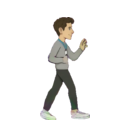
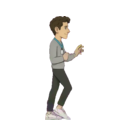
fix(arcade): the picker measures a cycle's period instead of guessing its spacing
The Oracle video walk played backwards: four picks spaced by a guessed 10 frames on a
28-frame cycle land out of phase. The picker now finds where the clip best matches
itself again (rejecting the shallower one-step dip for the full-cycle one) and spreads
the picks over exactly one cycle. Re-picked, re-normalised and re-wired.

Changed region(s): [[0.3125, 0.125, 0.7188, 0.9375]]

diff --git a/tools/assets/pick-arcade-frames.py b/tools/assets/pick-arcade-frames.py
@@ -12,8 +12,10 @@ become the drawings. This is Spriterrific's frame-picker discipline, ported:
 
   1. extract every frame with ffmpeg (or take a folder of frame-*.png already extracted);
   2. skip the settle at the start (--start-fraction: the model eases into the motion);
-  3. for a `cycle` (walk, idle) take N frames evenly spaced over N-1 times --span-factor
-     dense frames, which is roughly one stride; for an `action` (an attack, a reaction)
+  3. for a `cycle` (walk, idle) MEASURE the cycle period (where the clip best matches itself
+     again) and spread N frames over exactly one cycle, so the picks are in phase order —
+     a guessed spacing lands them out of phase and the walk plays as a moonwalk;
+     --span-factor overrides the measurement; for an `action` (an attack, a reaction)
      spread N frames over the whole remaining clip; for `hold` (a block) take the frames
      where the pose has settled;
   4. reject near-duplicates: a pick that differs from the previous one by less than
@@ -93,14 +95,51 @@ def spread_distinct(start: int, end: int, last: int, count: int, sigs: list[np.n
     return picks
 
 
-def choose(frames: list[Path], count: int, policy: str, start_fraction: float, span_factor: float, threshold: float | None) -> tuple[list[int], dict]:
+def cycle_period(sigs: list[np.ndarray], start: int) -> int | None:
+    """Dense frames per full cycle, from where the clip best matches itself again.
+
+    Mean absolute difference between each frame and the frame `k` later, for every `k`;
+    the first clear dip after the curve has risen is the period. Measured, not guessed:
+    a walk cycle picked at a guessed spacing lands its samples out of phase and plays as a
+    moonwalk. Returns None when no dip is found (a one-shot, or too short a clip).
+    """
+    pool = sigs[start:]
+    n = len(pool)
+    if n < 8:
+        return None
+    curve = []
+    for k in range(1, n // 2 + 1):
+        curve.append(float(np.mean([np.abs(pool[i] - pool[i + k]).mean() for i in range(n - k)])))
+    rise = max(curve[: max(2, len(curve) // 3)])
+    dips = [k + 1 for k in range(2, len(curve) - 1)
+            if curve[k] <= curve[k - 1] and curve[k] <= curve[k + 1] and curve[k] < 0.6 * rise]
+    if not dips:
+        return None
+    # A walk matches itself after ONE step too (the other leg, nearly the same
+    # silhouette), and that shallower dip comes first. The full cycle is the deepest
+    # match; when two dips are within a tenth of each other, the later one is the cycle.
+    best = min(dips, key=lambda lag: curve[lag - 1])
+    for lag in dips:
+        if lag > best and curve[lag - 1] <= curve[best - 1] * 1.1:
+            best = lag
+    return best
+
+
+def choose(frames: list[Path], count: int, policy: str, start_fraction: float, span_factor: float | None, threshold: float | None) -> tuple[list[int], dict]:
     total = len(frames)
     if total < count:
         raise ValueError(f"need at least {count} frames, found {total}")
     sigs = [signature(p) for p in frames]
     resolved = threshold if threshold is not None else auto_threshold(sigs)
     start = int(round((total - 1) * start_fraction))
+    period = None
     if policy == "cycle":
+        if span_factor is None:
+            period = cycle_period(sigs, start)
+            if period is None:
+                raise ValueError("could not measure a cycle period; pass --span-factor explicitly")
+            # N drawings spread over ONE period, the last one a step short of the wrap.
+            span_factor = period / count
         end = min(total - 1, start + round((count - 1) * span_factor))
     elif policy == "action":
         end = total - 1
@@ -111,7 +150,10 @@ def choose(frames: list[Path], count: int, policy: str, start_fraction: float, s
     if end - start + 1 < count:
         start, end = max(0, total - count), total - 1
     picks = spread_distinct(start, end, total - 1, count, sigs, resolved)
-    return picks, {"window": [start, end], "mode": policy, "duplicateThreshold": resolved}
+    meta = {"window": [start, end], "mode": policy, "duplicateThreshold": resolved, "spanFactor": span_factor}
+    if period is not None:
+        meta["cyclePeriod"] = period
+    return picks, meta
 
 
 def contact_sheet(paths: list[Path], out: Path, labels: list[str]) -> None:
@@ -135,7 +177,7 @@ def main() -> int:
     ap.add_argument("--frames", type=int, required=True, help="how many drawings to pick")
     ap.add_argument("--policy", choices=("cycle", "action", "hold"), default="action")
     ap.add_argument("--start-fraction", type=float, default=None, help="share of the clip to skip as settle (default: 0.08 for cycle, 0 otherwise)")
-    ap.add_argument("--span-factor", type=float, default=3.0, help="cycle only: dense frames per pick")
+    ap.add_argument("--span-factor", type=float, default=None, help="cycle only: dense frames per pick; default measures the cycle period and spreads the picks over one cycle")
     ap.add_argument("--fps", type=int, default=None, help="extraction rate; default keeps every source frame")
     ap.add_argument("--duplicate-threshold", type=float, default=None,
                     help="mean grey difference (0-255) below which two picks are the same drawing; default: half the clip's typical frame-to-frame change")
@@ -174,10 +216,11 @@ def main() -> int:
     contact_sheet(outputs, args.out_dir / "picks-contact-sheet.png", [f"{i} <- dense {index}" for i, index in enumerate(picks)])
     (args.out_dir / "selection.json").write_text(json.dumps({
         "source": str(args.source), "denseFrames": len(dense), "policy": args.policy,
-        "startFraction": start_fraction, "spanFactor": args.span_factor,
+        "startFraction": start_fraction,
         **meta, "picks": [{"out": str(o), "dense": int(i), "denseFile": str(dense[i])} for o, i in zip(outputs, picks)],
     }, indent=2) + "\n", encoding="utf-8")
-    print(f"{len(dense)} dense frames; window {meta['window'][0]}..{meta['window'][1]}; picked {picks}")
+    print(f"{len(dense)} dense frames; window {meta['window'][0]}..{meta['window'][1]}"
+          + (f"; measured cycle {meta['cyclePeriod']} frames" if meta.get('cyclePeriod') else "") + f"; picked {picks}")
     print(f"wrote {len(outputs)} picks and picks-contact-sheet.png to {args.out_dir}")
     return 0
 

diff --git a/asset-reports/mars-arcade-walk-video-trial-2026-09-24.md b/asset-reports/mars-arcade-walk-video-trial-2026-09-24.md
@@ -9,7 +9,7 @@ or free model". This is the first clip, end to end, with nothing paid.
 | --- | --- | --- |
 | Generate | `tools/assets/generate-arcade-video.py … --space ltx` on `Lightricks/ltx-video-distilled` (free ZeroGPU, no token) | 2.5 s, 512×768, 30 fps, 73 frames, **295 s in the queue**, seed 7. Prompt and provenance: `art-source/arcade/oracle/generated/walk-video-trial-v1/generation.json` |
 | Generate (Wan 2.2 first-last-frame, anchor as both ends) | same tool, `--space wan-flf` | **Refused: anonymous ZeroGPU quota is 60 s and the job asks for 180 s.** Needs `HF_TOKEN` (a free Hugging Face account). Not retried. |
-| Pick | `pick-arcade-frames.py --frames 4 --policy cycle --span-factor 10` | dense 6, 16, 26, 36 — one stride cycle after the settle |
+| Pick | `pick-arcade-frames.py --frames 4 --policy cycle` | first pass guessed a spacing of 10 and the owner saw him walk backwards: the samples were out of phase. The picker now MEASURES the cycle (28 dense frames; the one-step dip at 14 is rejected in favour of the deeper full-cycle match) and spreads the picks over exactly one cycle: dense 6, 13, 20, 27 |
 | Normalise | `normalise-arcade-clip.py --align torso --torso-reference <shipped walk-forward-00> --chroma #FF00FF` at 6.8029 (the locked 13.6058 halved, the clip being half the anchor's size) | 4 cells, `art-source/arcade/oracle/normalised-walk-video-trial/walk-forward/` |
 | Gate | `check-popt-frames-fullcolour.py --in-place-clip walk-forward` | 3 of 4 pass; `walk-forward-00` has one ≤2 px transparent speck |
 | Audit | `audit-arcade-clip.py` (as a loop clip) | **FAIL**: upper body pops −3,0 / +4,+3 / −1,−4 px between drawings (ceiling 2) |
